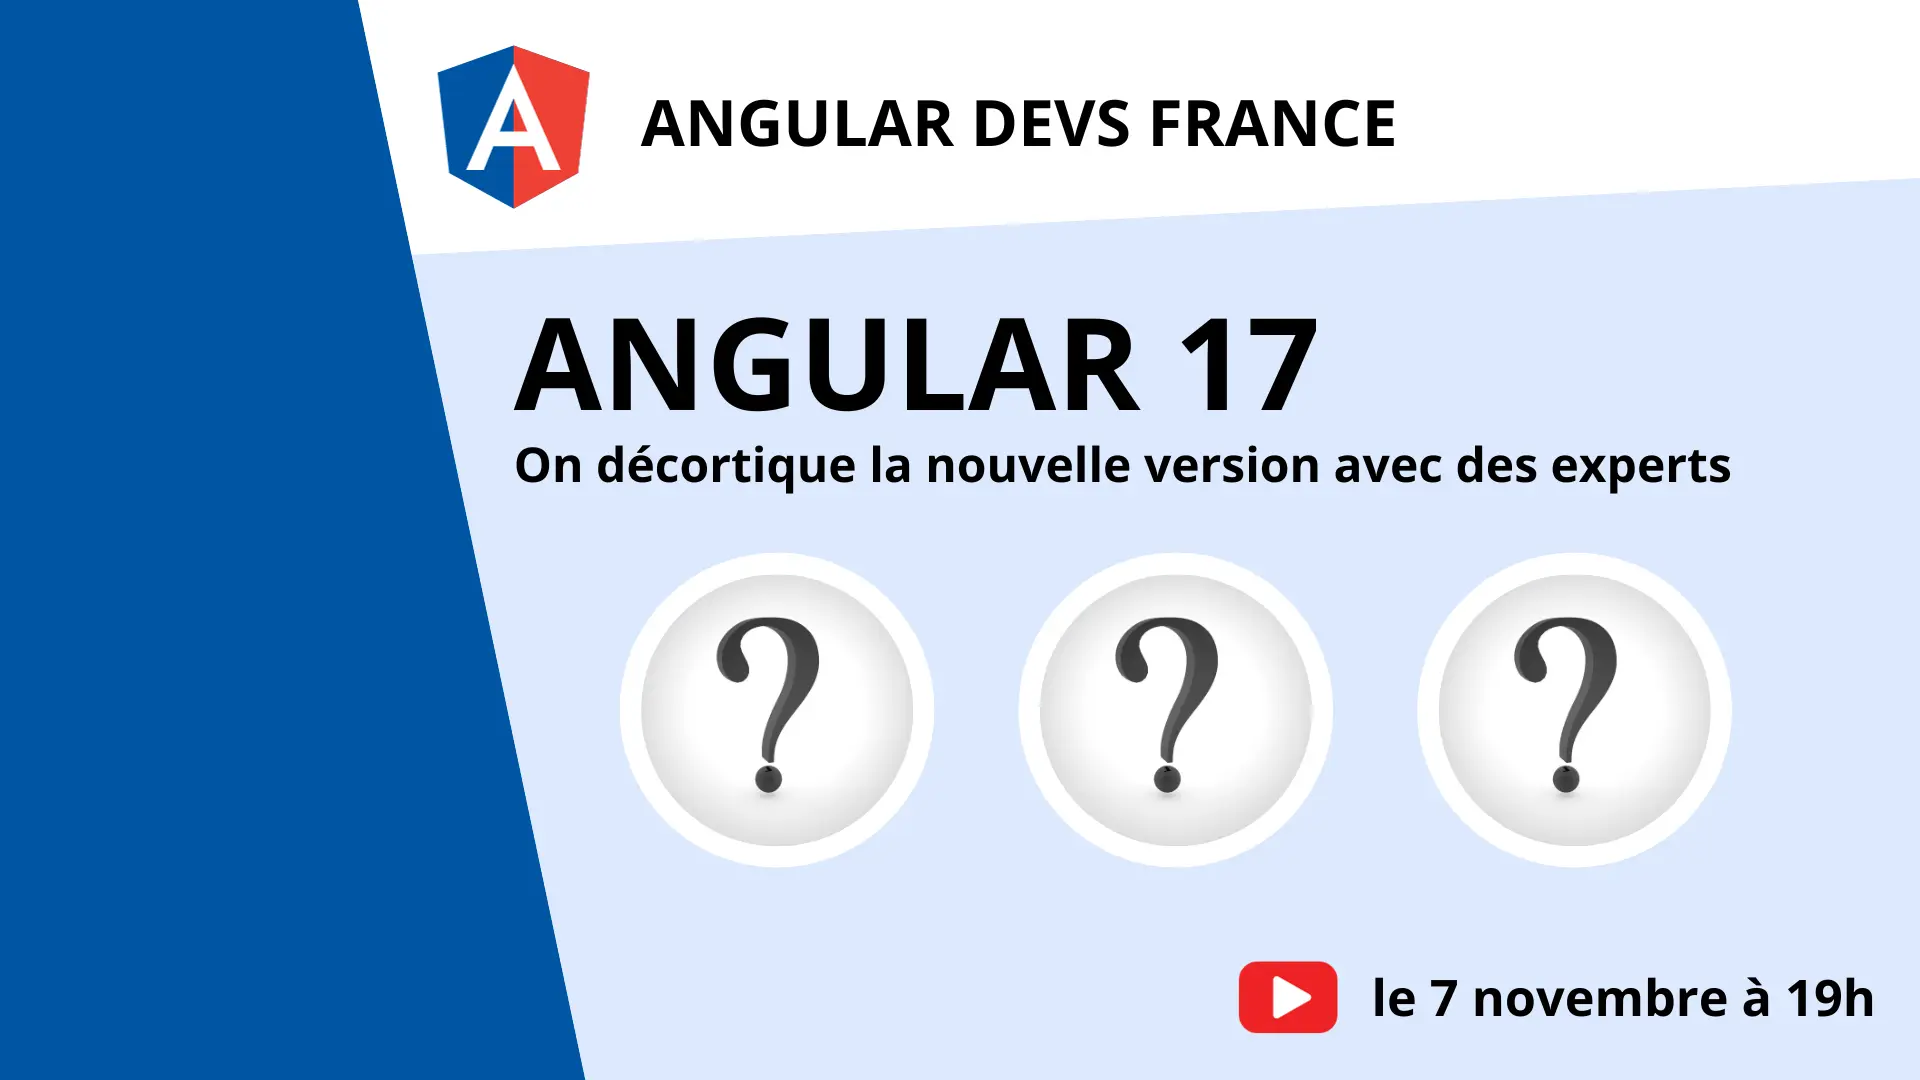
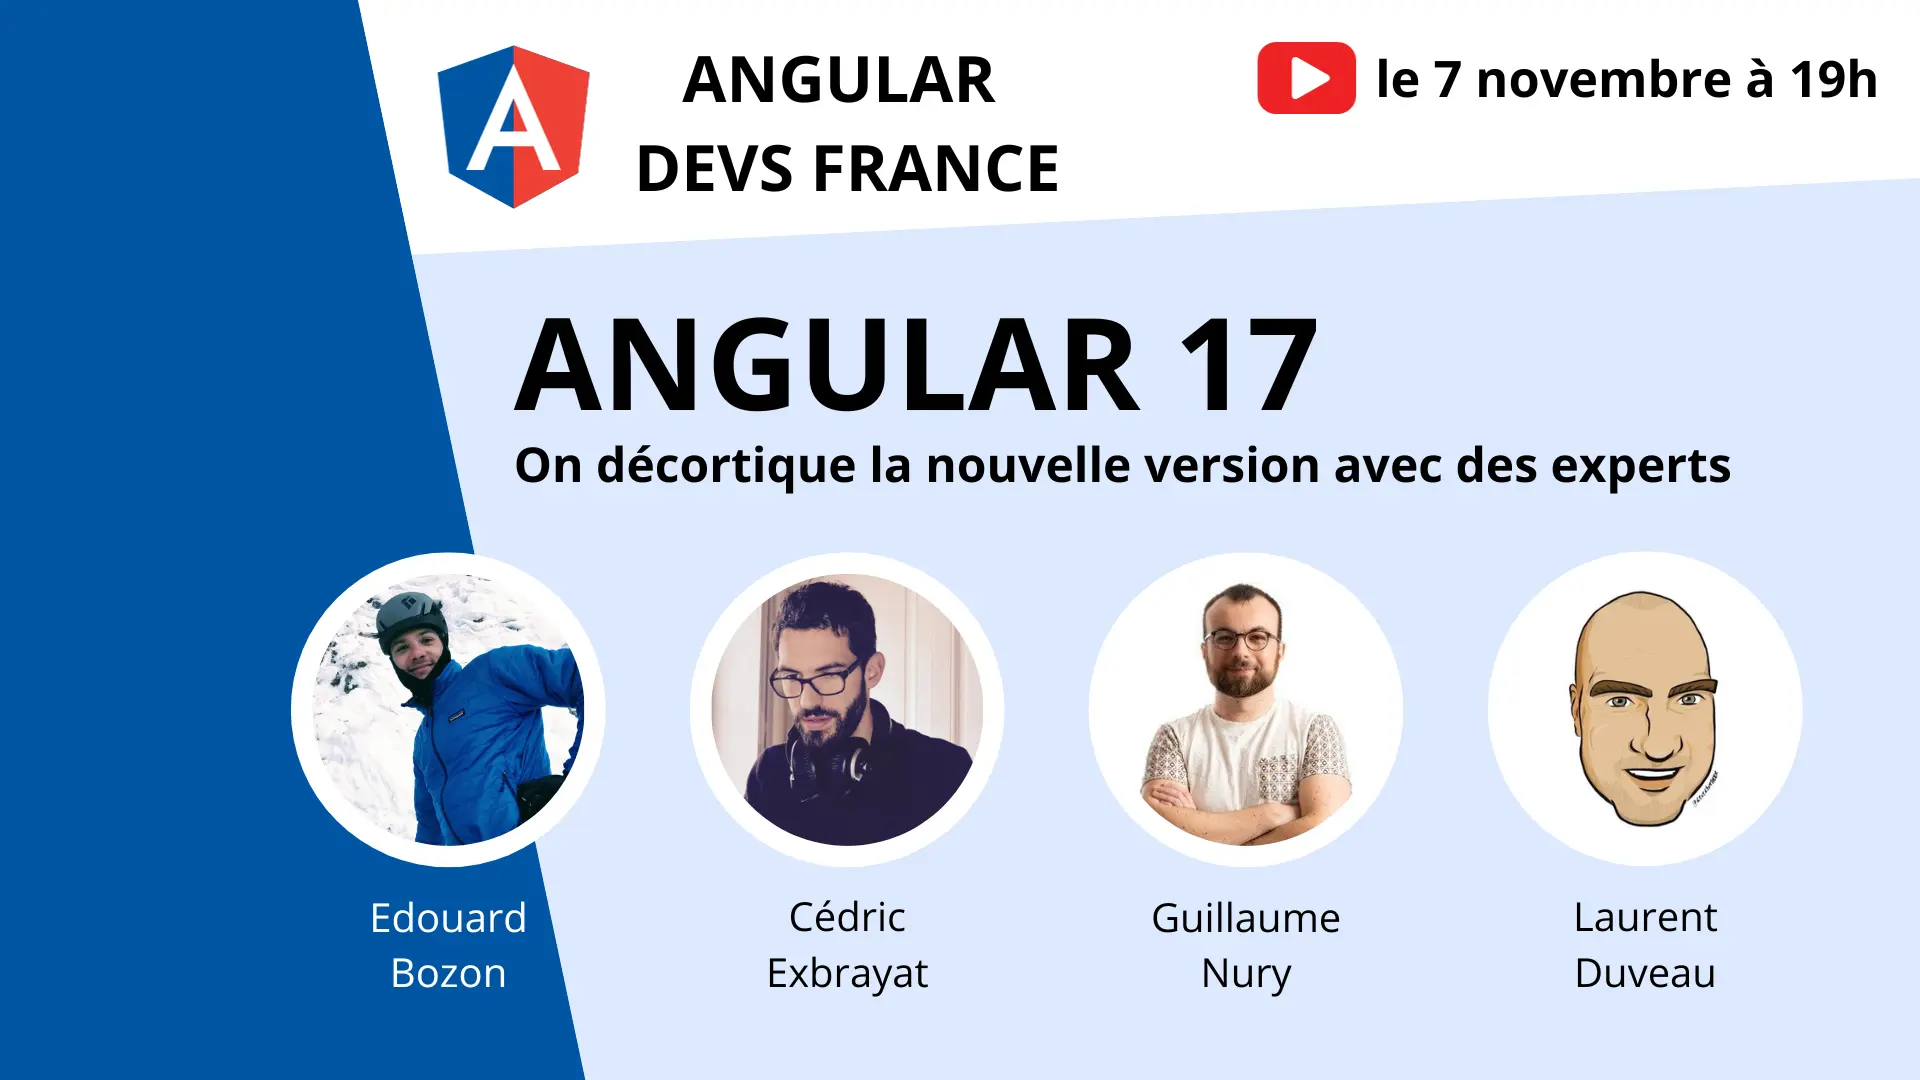
feat: add latest events

Changed region(s): [[0.125, 0.4889, 1.0, 0.9778], [0.3125, 0.0306, 1.0, 0.1833], [0.375, 0.8861, 0.5, 0.9167]]

diff --git a/src/app/pages/index.page.ts b/src/app/pages/index.page.ts
@@ -2,7 +2,7 @@ import { Component } from '@angular/core';
 import {EvenementComponent} from "../components/evenement.component";
 import {injectContentFiles} from "@analogjs/content";
 import {Evenement} from "../models/evenement.model";
-import {NgIf, NgOptimizedImage} from "@angular/common";
+import {NgForOf, NgIf, NgOptimizedImage} from "@angular/common";
 
 @Component({
   selector: 'app-home',
@@ -14,10 +14,11 @@ import {NgIf, NgOptimizedImage} from "@angular/common";
               <h1 class="text-6xl font-bold title">ANGULAR DEVS FRANCE</h1>
               <p class="text-xl">LE rendez-vous de la communauté Angular francophone!</p>
               <p>Rejoignez la communauté en live sur YouTube chaque premier mardi du mois à 19h!</p>
-              <a class="inline-block px-4 py-3 bg-red-600 text-white font-bold rounded-md"
-                 href="https://www.youtube.com/channel/UCmEGS2U5CSzWBt62WnCh_Cw" target="_blank">Découvrir
-                  la chaine
-                  YouTube</a>
+              <a class="inline-flex items-center gap-2 px-4 py-3 bg-red-600 text-white font-bold rounded-md"
+                 href="https://www.youtube.com/channel/UCmEGS2U5CSzWBt62WnCh_Cw" target="_blank">
+                <img ngSrc="/images/youtube.svg" height="24" width="24" alt=""/>
+                Découvrir la chaine YouTube
+              </a>
               <a
                       class="sm:hidden px-4 py-3 bg-blue-700 text-white font-bold rounded-md"
                       href="https://conference-hall.io/public/event/xXhZVEbtz1mMoWZYhsoE"
@@ -27,11 +28,12 @@ import {NgIf, NgOptimizedImage} from "@angular/common";
           </div>
       </div>
 
-
-      <h2 class="text-4xl font-bold mt-20 mb-8 text-center">Prochain événement</h2>
-      <app-event *ngIf="nextEvent; else upcoming" [evenement]="nextEvent"></app-event>
+      <h2 class="text-4xl font-bold mt-20 mb-8 text-center">Prochains événements</h2>
+      <ng-container *ngIf="nextEvents.length; else upcoming">
+        <app-event *ngFor="let event of nextEvents" [evenement]="event"></app-event>
+      </ng-container>
       <ng-template #upcoming>
-        <p class="text-center">Annonce à venir pour la prochaine édition du 7 novembre 2023</p>
+        <p class="text-center">Annonce à venir pour la prochaine édition</p>
       </ng-template>
   `,
   styles: [
@@ -48,12 +50,12 @@ import {NgIf, NgOptimizedImage} from "@angular/common";
   imports: [
     EvenementComponent,
     NgOptimizedImage,
-    NgIf
+    NgIf,
+    NgForOf
   ]
 })
 export default class HomeComponent {
-  nextEvent = injectContentFiles<Evenement>(file => {
+  nextEvents = injectContentFiles<Evenement>(file => {
     return file.filename.startsWith('/src/content/evenements/') && new Date(file.attributes.date) > new Date()
-  })[0];
-
+  }).sort((a, b) => new Date(a.attributes.date).getTime() - new Date(b.attributes.date).getTime());
 }

diff --git a/src/app/components/evenement.component.ts b/src/app/components/evenement.component.ts
@@ -1,14 +1,15 @@
-import {Component, computed, Input} from '@angular/core';
+import {Component, Input} from '@angular/core';
 import {Evenement} from "../models/evenement.model";
 import {ContentFile} from "@analogjs/content";
 import {RouterLink} from "@angular/router";
-import {DatePipe, NgOptimizedImage} from "@angular/common";
+import {DatePipe, NgIf, NgOptimizedImage} from "@angular/common";
+import {EvenementLinkComponent} from "./evenement-link.component";
 
 @Component({
   selector: 'app-event',
   standalone: true,
   template: `
-    <article class="flex justify-around items-start max-w-screen-md gap-4 mb-8">
+    <article class="flex justify-between items-start w-full max-w-screen-md gap-4 mb-8">
       <section class="text-start">
         <h3 class="font-bold text-2xl" itemprop="title">{{evenement.attributes.title}}</h3>
         <p class="flex gap-1 mb-4 italic" itemprop="date">
@@ -19,11 +20,7 @@ import {DatePipe, NgOptimizedImage} from "@angular/common";
           {{evenement.attributes.description}}
         </p>
         <a class="underline block mb-4" [routerLink]="['/evenements', evenement.slug]" title="Découvrez les détails de l'évènement">Voir plus</a>
-        <a class="inline-flex items-center gap-2 px-4 py-2 bg-red-600 text-white font-bold rounded-md" [href]="evenement.attributes.youtube"
-           target="_blank" title="Accédez à l'évènement live sur YouTube">
-          <img ngSrc="/images/youtube.svg" height="24" width="24" alt=""/>
-          {{youtubeText()}}
-        </a>
+        <app-evenement-link [evenement]="evenement"></app-evenement-link>
       </section>
       <img class="hidden sm:block border-2 border-white" [ngSrc]="'/images/' + evenement.attributes.image" height="180" width="320" priority alt="">
     </article>
@@ -32,21 +29,20 @@ import {DatePipe, NgOptimizedImage} from "@angular/common";
   imports: [
     RouterLink,
     DatePipe,
-    NgOptimizedImage
+    NgOptimizedImage,
+    NgIf,
+    EvenementLinkComponent
   ],
   styles: [
     `
       :host {
         display: flex;
         justify-content: center;
+        margin-bottom: 2rem;
       }
     `
   ]
 })
 export class EvenementComponent {
   @Input({required: true}) evenement!: ContentFile<Evenement>;
-
-  youtubeText = computed(() => {
-    return new Date(this.evenement.attributes.date) > new Date() ? 'Participer' : 'Revoir';
-  });
 }

diff --git a/src/app/pages/evenements/[slug].page.ts b/src/app/pages/evenements/[slug].page.ts
@@ -1,24 +1,21 @@
 import { Component } from '@angular/core';
-import {injectContent, MarkdownComponent} from "@analogjs/content";
+import {ContentFile, injectContent, MarkdownComponent} from "@analogjs/content";
 import {AsyncPipe, NgIf, NgOptimizedImage} from "@angular/common";
 import {Evenement} from "../../models/evenement.model";
 import {Meta, Title} from "@angular/platform-browser";
-import {tap} from "rxjs";
+import {Observable, tap} from "rxjs";
+import {EvenementLinkComponent} from "../../components/evenement-link.component";
 
 @Component({
   selector: 'app-evenement',
   standalone: true,
-  imports: [MarkdownComponent, NgIf, AsyncPipe, NgOptimizedImage],
+  imports: [MarkdownComponent, NgIf, AsyncPipe, NgOptimizedImage, EvenementLinkComponent],
   template: `
     <ng-container *ngIf="evenement$ | async as evenement">
       <img class="border-2 border-white" [ngSrc]="'/images/' + evenement.attributes.image" height="360" width="640" alt="" priority>
       <h1 class="text-6xl font-bold mb-8">{{evenement.attributes.title}}</h1>
       <p>{{evenement.attributes.description}}</p>
-      <a class="not-prose inline-flex items-center gap-2 px-4 py-2 bg-red-600 text-white font-bold rounded-md" [href]="evenement.attributes.youtube"
-         target="_blank" title="Accédez à l'évènement live sur YouTube">
-        <img ngSrc="/images/youtube.svg" height="24" width="24" alt=""/>
-        Participer
-      </a>
+      <app-evenement-link [evenement]="evenement"></app-evenement-link>
       <analog-markdown class="prose prose-headings:font-bold prose-h2:text-3xl" [content]="evenement.content"></analog-markdown>
     </ng-container>
     `,
@@ -33,10 +30,10 @@ import {tap} from "rxjs";
   ]
 })
 export default class EvenementComponent {
-  evenement$ = injectContent<Evenement>({
+  evenement$ = (injectContent<Evenement>({
     param: 'slug',
     subdirectory: 'evenements'
-  }).pipe(
+  }) as Observable<ContentFile<Evenement>>).pipe(
     tap((evenement) => {
       this.title.setTitle(`${evenement.attributes.title} - Angular Devs France`);
       this.meta.updateTag({name: 'description', content: evenement.attributes.description});

diff --git a/src/app/components/evenement-link.component.ts b/src/app/components/evenement-link.component.ts
@@ -1,0 +1,42 @@
+import {Component, computed, Input} from '@angular/core';
+import {NgIf, NgOptimizedImage} from "@angular/common";
+import {ContentFile} from "@analogjs/content";
+import {Evenement} from "../models/evenement.model";
+
+@Component({
+  selector: 'app-evenement-link',
+  template: `
+    <a *ngIf="evenement.attributes.youtube"
+       class="inline-flex items-center gap-2 px-4 py-2 bg-red-600 text-white font-bold rounded-md"
+       [href]="evenement.attributes.youtube"
+       target="_blank" title="Accédez à l'évènement live sur YouTube">
+      <img ngSrc="/images/youtube.svg" height="24" width="24" alt=""/>
+      {{isFuture() ? 'Participer' : 'Revoir'}}
+    </a>
+    <a *ngIf="evenement.attributes.link && isFuture()"
+       class="inline-flex items-center gap-2 px-4 py-2 bg-gray-700 text-white font-bold rounded-md"
+       [href]="evenement.attributes.link"
+       target="_blank" title="Vivez l'événement avec la communauté en personne">
+      Nous rejoindre
+    </a>
+    <a *ngIf="!evenement.attributes.link && !evenement.attributes.youtube"
+       class="inline-flex items-center gap-2 px-4 py-2 bg-blue-700 text-white font-bold rounded-md"
+       href="https://conference-hall.io/public/event/xXhZVEbtz1mMoWZYhsoE"
+       title="Rejoignez notre communauté de speakers en proposant un sujet sur Conference Hall"
+       target="_blank">
+      Proposer un sujet
+    </a>
+  `,
+  imports: [
+    NgIf,
+    NgOptimizedImage
+  ],
+  standalone: true
+})
+export class EvenementLinkComponent {
+ @Input({required: true}) evenement!: ContentFile<Evenement>;
+
+ isFuture = computed(() => {
+    return new Date(this.evenement.attributes.date) > new Date();
+ })
+}

diff --git a/src/app/pages/a-propos.page.ts b/src/app/pages/a-propos.page.ts
@@ -24,6 +24,13 @@ import {Meta, Title} from "@angular/platform-browser";
         <app-people [people]="people.attributes"></app-people>
       </li>
     </ul>
+
+    <h2 class="text-4xl font-bold mt-20 mb-8">La structure</h2>
+
+    <p>Organisation à but non lucratif, Angular Devs France est un groupement de développeurs unis dans la volonté de faciliter l'accès au savoir, avec comme coeur d'intérêt le framework Angular.</p>
+    <p>Notre organisation entretient une politique stricte de neutralité en ce qui concerne les questions politiques et religieuses. Notre mission et nos activités sont délibérément conçues pour rester apolitiques et laïques.</p>
+    <p>L'organisation est indépendante dans ses choix de partage de contenu et n'a pas pour objectif de faciliter la publicité des employeurs de ses membres.</p>
+
     <h2 class="text-4xl font-bold mt-20 mb-8">Hall of Fame</h2>
     <ul class="flex flex-wrap justify-center gap-8">
       <li *ngFor="let people of inactiveStaff">

diff --git a/src/app/components/footer.component.ts b/src/app/components/footer.component.ts
@@ -14,7 +14,7 @@ import {RouterLink} from "@angular/router";
         <ul>
           <li class="py-1 sm:py-0"><a href="https://twitter.com/AngularDevsFr" target="_blank" title="Rejoignez la communauté sur Twitter">Twitter</a></li>
           <li class="py-1 sm:py-0"><a href="https://www.linkedin.com/company/angular-devs-france" target="_blank" title="Rejoignez la communauté sur LinkedIn">LinkedIn</a></li>
-          <li class="py-1 sm:py-0"><a href="https://discord.gg/c8XThfW9a7" target="_blank" title="Rejoignez la communauté sur le serveur Discord Bonjour Angular">Discord</a></li>
+          <li class="py-1 sm:py-0"><a href="https://discord.gg/c8XThfW9a7" target="_blank" title="Rejoignez la communauté sur le serveur Discord Bonjour Angular">Discord Bonjour Angular</a></li>
         </ul>
       </section>
 

diff --git a/src/app/pages/evenements/index.page.ts b/src/app/pages/evenements/index.page.ts
@@ -13,7 +13,8 @@ import {Meta, Title} from "@angular/platform-browser";
     NgForOf
   ],
   template: `
-    <h1 class="text-4xl sm:text-6xl font-bold mb-8">Evenements</h1>
+    <h1 class="text-4xl sm:text-6xl font-bold mb-8">Evènements</h1>
+
     <ul>
       <li>
         <app-event
@@ -28,7 +29,6 @@ export default class EvenementsComponent {
   evenements = injectContentFiles<Evenement>(({filename}) => filename.startsWith('/src/content/evenements/')).sort(
     (a, b) => new Date(b.attributes.date).getTime() - new Date(a.attributes.date).getTime()
   );
-
   constructor(
     private readonly title: Title,
     private readonly meta: Meta

diff --git a/src/app/models/evenement.model.ts b/src/app/models/evenement.model.ts
@@ -2,6 +2,8 @@ export interface Evenement {
   title: string;
   description: string;
   date: string;
-  youtube: string;
+  youtube?: string;
+  link?: string;
   image: string;
+  mode: 'onsite' | 'online';
 }

diff --git a/src/content/evenements/evenement-04-12-2023.md b/src/content/evenements/evenement-04-12-2023.md
@@ -1,0 +1,29 @@
+---
+title: "Angular Devs France #3 | NX & Signals"
+date: 2023-12-04
+description: "Comment bien organiser son code? Avec NX et la nouvelle API stable des Signals, Emmanuel, Stephen et Younes nous feront découvrir leur savoir pour mieux structurer votre code et vos projets."
+youtube: 'https://youtube.com/live/yYGk058Q4fU?feature=share'
+image: 'event-4.webp'
+mode: 'online'
+---
+
+## Programme
+
+### Signals en Angular - C'est du Solid(JS) !
+par [Emmanuel Kerjean](https://www.linkedin.com/in/emmanuel-kerjean-656879170/)
+par [Stephen Clodic](https://www.linkedin.com/in/stephen-clodic-772b5153/)
+
+Détecter et réagir aux changements d’états a toujours été un point faible d’Angular. Basée sur ZoneJS, la “detection changes” manque de granularité et peut conduire à un manque de fluidité d’un point de vue UX. L'utilisation de RxJS et/ou de la stratégie “OnPush” d’Angular a permis de compenser en partie ce problème, sans être totalement satisfaisant (syntaxe lourde).
+
+La V16 d'Angular, sortie en mai 2023, dispose d'une nouvelle feature des plus intéressantes : les Signals. Inspirés de SolidJS, les Signals visent à optimiser la réaction aux changements d'Angular, afin de rationaliser l'utilisation de RxJS et conserver une syntaxe claire et concise.
+
+Répondez au signal, et venez assister au talk pour en savoir plus !
+
+
+
+### Finies les apps, pensez libs avec Nx !
+par [Younes Jaaidi](https://twitter.com/yjaaidi)
+
+Qui a dit monorepo ? Bien que Nx soit la principale alternative “human readable” à Bazel pour organiser un monorepo, Nx est aussi un outil permettant de découper aisément nos applications en libs. Cela dit, à quelles fins céderions-nous à une telle tentation ? Par simple esthétisme, ou bien plus ?
+
+Donnons-nous rendez-vous à ce talk pour que vous puissiez observer par vous même les gains que peut vous apporter Nx, dès demain au travers d’une adoption progressive.

diff --git a/src/content/evenements/evenement-07-11-2023.md b/src/content/evenements/evenement-07-11-2023.md
@@ -4,10 +4,14 @@ date: 2023-11-07
 description: "Pour fêter la sortie d'Angular 17, nous vous invitons à assister à une table ronde réunissant plusieurs développeurs Angular afin d'échanger sur les nouvelles features, les changements et les moyens d'en faciliter l'apprentissage."
 youtube: 'https://youtube.com/live/YBty95aSP6c?feature=share'
 image: 'event-2.webp'
+mode: 'online'
 ---
 
 ## Table ronde
 
-- intervenant n°1 - placeholder
-- intervenant n°2 - placeholder
-- intervenant n°3 - placeholder
+### Intervenants
+
+- [Edouard Bozon](https://twitter.com/edbzn)
+- [Cédric Exbrayat](https://www.linkedin.com/in/exbrayatcedric/)
+- [Guillaume Nury](https://twitter.com/Ebrithil30)
+- [Laurent Duveau](https://www.linkedin.com/in/laurentduveau/)

diff --git a/src/content/evenements/evenement-06-11-2023.md b/src/content/evenements/evenement-06-11-2023.md
@@ -1,0 +1,16 @@
+---
+title: "Angular à Nantes | Live core team Angular"
+date: 2023-11-06
+description: "On vous invite à suivre le livestream officiel d'Angular en présentiel avec la communauté nantaise dans les locaux de Zenika Nantes."
+link: 'https://www.eventbrite.com/e/billets-soiree-de-lancement-angular-17-739889418167'
+image: 'event-3.webp'
+mode: 'onsite'
+---
+
+## Programme
+
+Rediffusion en live de la présentation des dernières nouveautés d'Angular par la core team.
+
+Zenika Nantes nous invite à un apéro networking pour poursuivre les échanges.
+
+Suivez le livestream depuis votre canapé: goo.gle/angular-event

diff --git a/src/content/evenements/evenement-03-10-2023.md b/src/content/evenements/evenement-03-10-2023.md
@@ -4,6 +4,7 @@ date: 2023-10-03
 description: "Pour cette première édition, nous vous proposons de venir à la rencontre de Nicolas Frizzarin et Matthieu Riegler, deux experts de la communauté Angular."
 youtube: 'https://youtube.com/live/tfcsGzQmyjA?feature=share'
 image: 'event.webp'
+mode: 'online'
 ---
 
 ## Programme
